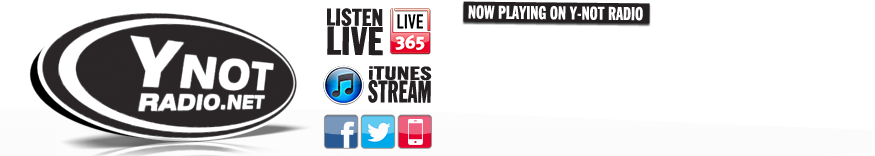
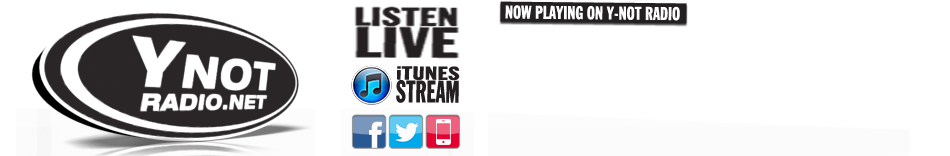
new header image, map coords and placement

diff --git a/style/typography.css b/style/typography.css
@@ -88,8 +88,8 @@ header {
 header iframe {
   border: 1px solid black;
   position: relative;
-  top: -130px;
-  left: 474px;
+  top: -126px;
+  left: 490px;
 }
 
 header .columns {

diff --git a/partials/_header.php b/partials/_header.php
@@ -20,7 +20,7 @@ if ($page_file != "logout.php"){
   <meta property="og:image"
     content="http://ynotradio.net/imgs/ynot.jpg"/>
   <meta property="og:url"
-    content="http://ynotradio.net"/>  
+    content="http://ynotradio.net"/>
   <meta property="og:title"
       content="YNot Radio"/>
   <meta property="og:description"
@@ -34,15 +34,15 @@ if ($page_file != "logout.php"){
 <div id="container">
     <header>
           <img src="imgs/header.png" alt="logo" usemap="#Map"/>
-          <iframe  src="http://www.live365.com/mini/playlist.html?ads=0&cb=0&site=pro&irows=0&hide=TBW&rows=6&station=ynotradio&css=/scp/css/playlist.css" name="Live365Playlist" scrolling="AUTO" noresize frameborder="No" marginwidth="0" marginheight="0" width=390 height=125></iframe>
+          <iframe  src="http://www.live365.com/mini/playlist.html?ads=0&cb=0&site=pro&irows=0&hide=TBW&rows=6&station=ynotradio&css=/scp/css/playlist.css" name="Live365Playlist" scrolling="AUTO" noresize frameborder="No" marginwidth="0" marginheight="0" width=425 height=125></iframe>
   <map name="Map">
-    <area shape="rect" coords="15,5,300,150" href="http://www.ynotradio.net" alt="Y-Not Radio"/> 
-    <area shape="rect" coords="325,5,430,55" href="http://www.live365.com/cgi-bin/mini.cgi?station_name=ynotradio&amp;site=pro&amp;tm=5300" onclick="return popup(this, &#39;notes&#39;)" alt="Listen Live"/> 
-    <area shape="rect" coords="325,65,430,105" href="http://www.live365.com/cgi-bin/play.pls?stationid=ynotradio&tag=itunes"
+    <area shape="rect" coords="30,5,295,150" href="http://www.ynotradio.net" alt="Y-Not Radio"/>
+    <area shape="rect" coords="345,5,450,55" href="http://www.live365.com/cgi-bin/mini.cgi?station_name=ynotradio&amp;site=pro&amp;tm=5300" onclick="return popup(this, &#39;notes&#39;)" alt="Listen Live"/>
+    <area shape="rect" coords="345,65,450,102" href="http://www.live365.com/cgi-bin/play.pls?stationid=ynotradio&tag=itunes"
      alt="iTunes">
-    <area shape="rect" coords="325,115,358,145" href="https://www.facebook.com/ynotradio" alt="facebook" target="_new"/>
-    <area shape="rect" coords="362,115,394,145" href="http://twitter.com/ynotradio" alt="twitter" target="_new"/>
-    <area shape="rect" coords="398,115,432,145" href="mobile.php" alt="mobile"/>
+    <area shape="rect" coords="345,110,378,145" href="https://www.facebook.com/ynotradio" alt="facebook" target="_new"/>
+    <area shape="rect" coords="382,110,414,145" href="http://twitter.com/ynotradio" alt="twitter" target="_new"/>
+    <area shape="rect" coords="418,110,452,145" href="mobile.php" alt="mobile"/>
   </map>
   </header>
   <nav>
